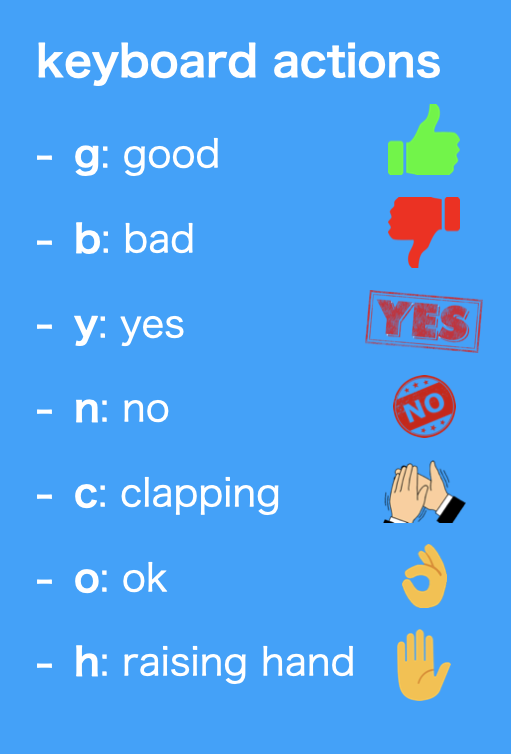
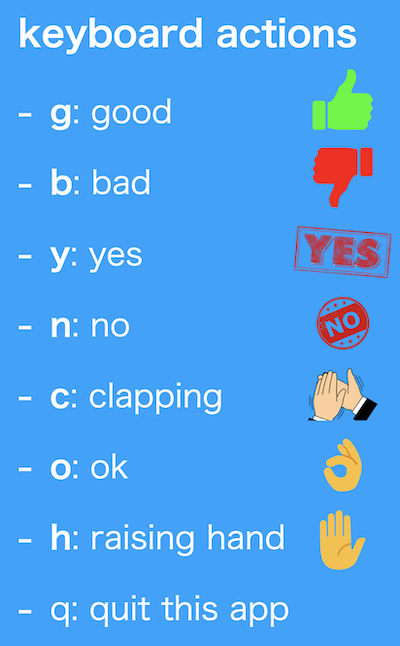
add more images

diff --git a/main.py b/main.py
@@ -8,12 +8,20 @@ import time
 
 # TODO: インデックスの設定
 cap = cv2.VideoCapture(1)
-clap_img_flag = False
+good_img_flag = False
+bad_img_flag = False
 yes_img_flag = False
 no_img_flag = False
-clap_img_counter = 0
+clap_img_flag = False
+ok_img_flag = False
+raising_hand_img_flag = False
+good_img_counter = 0
+bad_img_counter = 0
 yes_img_counter = 0
 no_img_counter = 0
+clap_img_counter = 0
+ok_img_counter = 0
+raising_hand_img_counter = 0
 img_display_time = 10
 while True:
     key = cv2.waitKey(1)
@@ -23,7 +31,7 @@ while True:
     if not ret:
         break
 
-    with open("VoiceClassification/result.txt" ,mode="r",errors='ignore',encoding="utf-8")as f:
+    with open("VoiceClassification/result.txt", mode="r", errors='ignore', encoding="utf-8")as f:
         text = f.read()
     if text == "Yes":
         yes_img_flag = True
@@ -32,27 +40,53 @@ while True:
     if text == "Clap":
         clap_img_flag = True
 
-
     # 各種トリガーを記述
-    if key == ord("c"):
-        clap_img_flag = True
+    if key == ord("g"):
+        good_img_flag = True
+    if key == ord("b"):
+        bad_img_flag = True
     if key == ord("y"):
         yes_img_flag = True
     if key == ord("n"):
         no_img_flag = True
+    if key == ord("c"):
+        clap_img_flag = True
+    if key == ord("o"):
+        ok_img_flag = True
+    if key == ord("h"):
+        raising_hand_img_flag = True
 
     # 各画像の表示
-    if clap_img_flag == True:
-        paste_img = cv2.imread('assets/clap.png')
+    # default images
+    paste_img = cv2.imread('assets/keyboard-actions.png')
+    x = -500
+    y = -150
+    angle = 0
+    scale = 0.5
+    frame = pasteImage.cvpaste(paste_img, frame, x, y, angle, scale)
+    # keyboard actions images
+    if good_img_flag == True:
+        paste_img = cv2.imread('assets/good.png')
         x = random.randint(-50, 50)*10
         y = random.randint(-15, 15)*10
         angle = 0
         scale = 1.2
         frame = pasteImage.cvpaste(paste_img, frame, x, y, angle, scale)
-        clap_img_counter += 1
-        if clap_img_counter == img_display_time:
-            clap_img_flag = False
-            clap_img_counter = 0
+        good_img_counter += 1
+        if good_img_counter == img_display_time:
+            good_img_flag = False
+            good_img_counter = 0
+    if bad_img_flag == True:
+        paste_img = cv2.imread('assets/bad.png')
+        x = random.randint(-50, 50)*10
+        y = random.randint(-15, 15)*10
+        angle = 0
+        scale = 1.2
+        frame = pasteImage.cvpaste(paste_img, frame, x, y, angle, scale)
+        bad_img_counter += 1
+        if bad_img_counter == img_display_time:
+            bad_img_flag = False
+            bad_img_counter = 0
     if yes_img_flag == True:
         paste_img = cv2.imread('assets/yes.png')
         x = 450
@@ -75,6 +109,39 @@ while True:
         if no_img_counter == img_display_time:
             no_img_flag = False
             no_img_counter = 0
+    if clap_img_flag == True:
+        paste_img = cv2.imread('assets/clap.png')
+        x = random.randint(-50, 50)*10
+        y = random.randint(-15, 15)*10
+        angle = 0
+        scale = 1.2
+        frame = pasteImage.cvpaste(paste_img, frame, x, y, angle, scale)
+        clap_img_counter += 1
+        if clap_img_counter == img_display_time:
+            clap_img_flag = False
+            clap_img_counter = 0
+    if ok_img_flag == True:
+        paste_img = cv2.imread('assets/ok.png')
+        x = random.randint(-50, 50)*10
+        y = random.randint(-15, 15)*10
+        angle = 0
+        scale = 1.2
+        frame = pasteImage.cvpaste(paste_img, frame, x, y, angle, scale)
+        ok_img_counter += 1
+        if ok_img_counter == img_display_time:
+            ok_img_flag = False
+            ok_img_counter = 0
+    if raising_hand_img_flag == True:
+        paste_img = cv2.imread('assets/raising_hand.png')
+        x = random.randint(-50, 50)*10
+        y = random.randint(-15, 15)*10
+        angle = 0
+        scale = 1.2
+        frame = pasteImage.cvpaste(paste_img, frame, x, y, angle, scale)
+        raising_hand_img_counter += 1
+        if raising_hand_img_counter == img_display_time:
+            raising_hand_img_flag = False
+            raising_hand_img_counter = 0
 
     cv2.imshow('CameraApp', frame)
 
